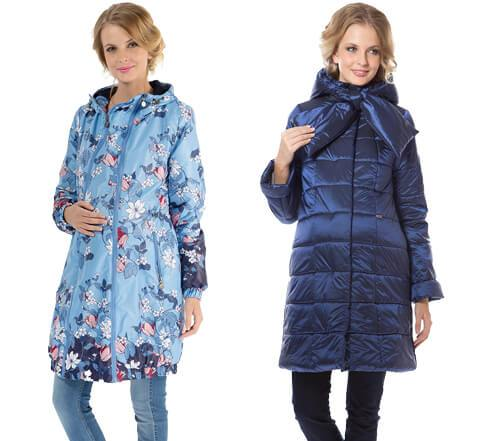
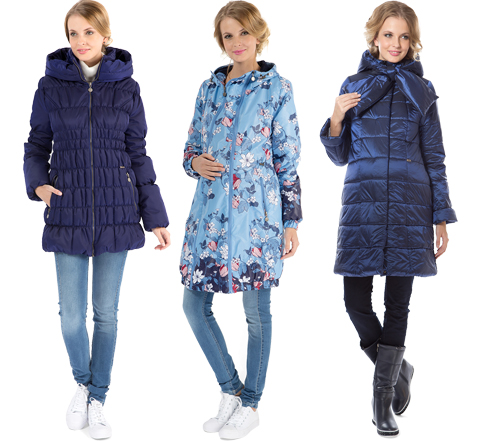
смена слайда

diff --git a/index.html b/index.html
@@ -183,9 +183,9 @@
 							<div class="item">
 								<div class="col-sm-6">
 									<h1><span>New!</span> Куртки</h1>
-									<h3>Демисезонные куртки "Симона" и "Женева"</h3>
+									<h3>Демисезонные куртки "Сара" "Симона" и "Женева"</h3>
 									<p>Для беременности и повседневной жизни<br><br> 
-                                    Две расцветки:<br>- Цветы на голубом<br>- Синий<br>     </p>
+                                    Три расцветки:<br>- Баклажан<br>- Цветы на голубом<br>- Синий</p>
 									<a href="#novinki01"><button type="button" class="btn btn-default get" >Перейти к описанию</button></a>
 								</div>
 								<div class="col-sm-6">
